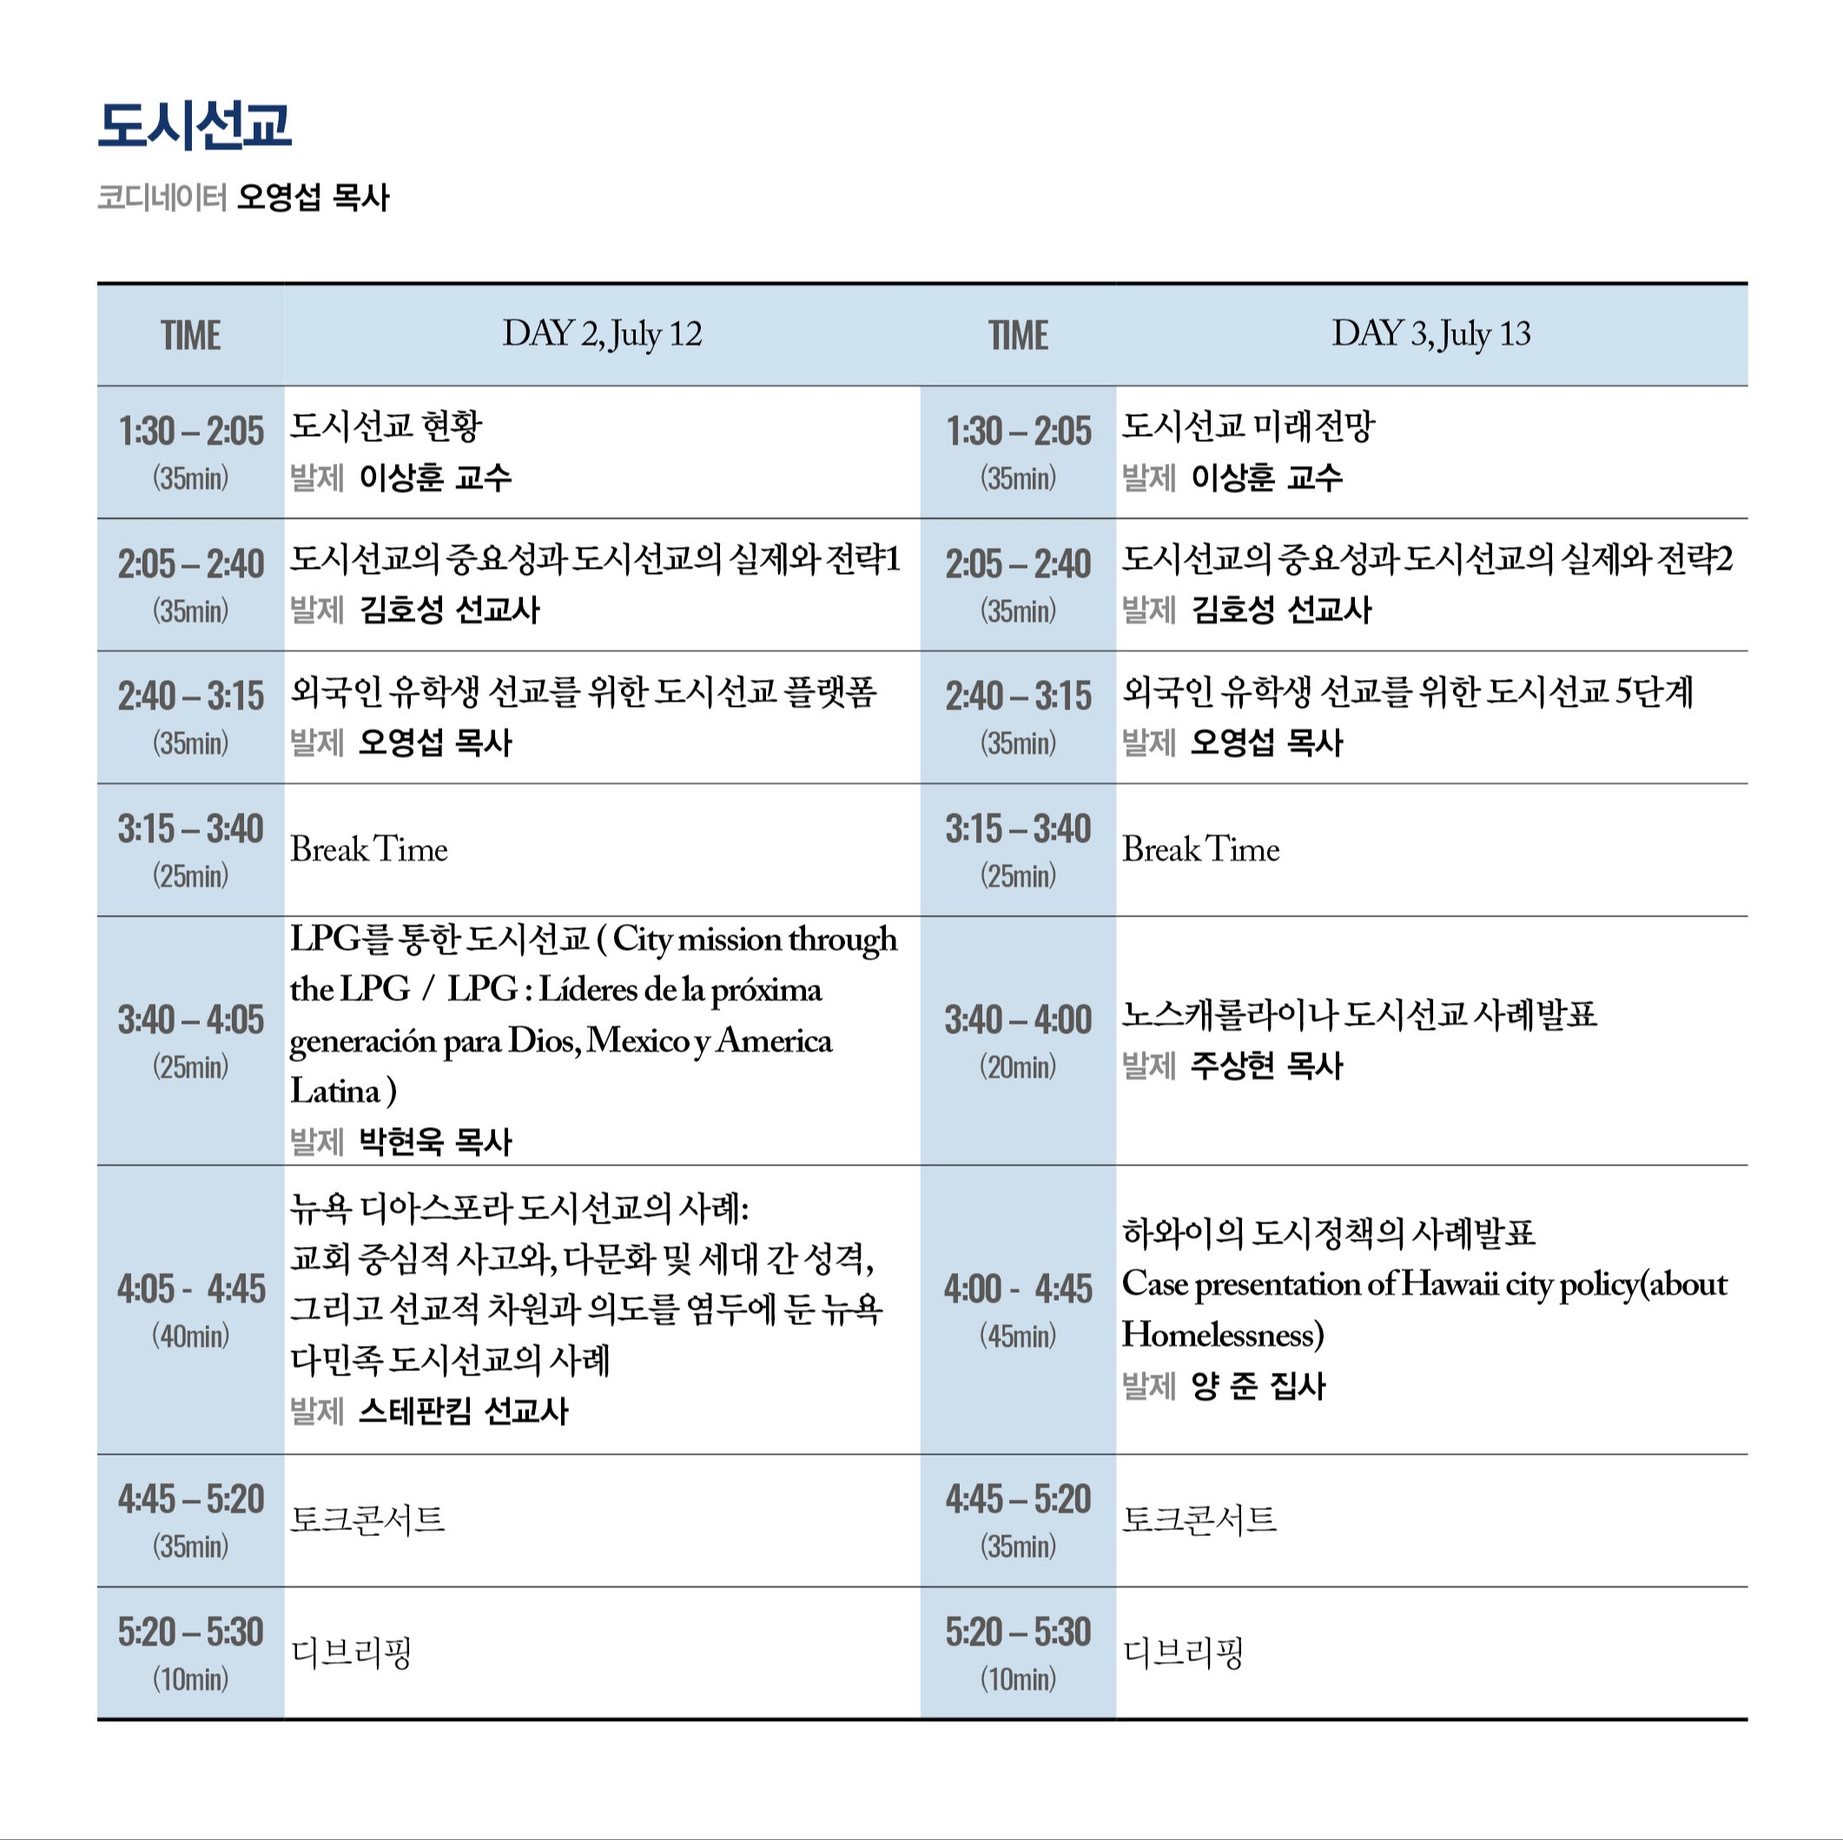
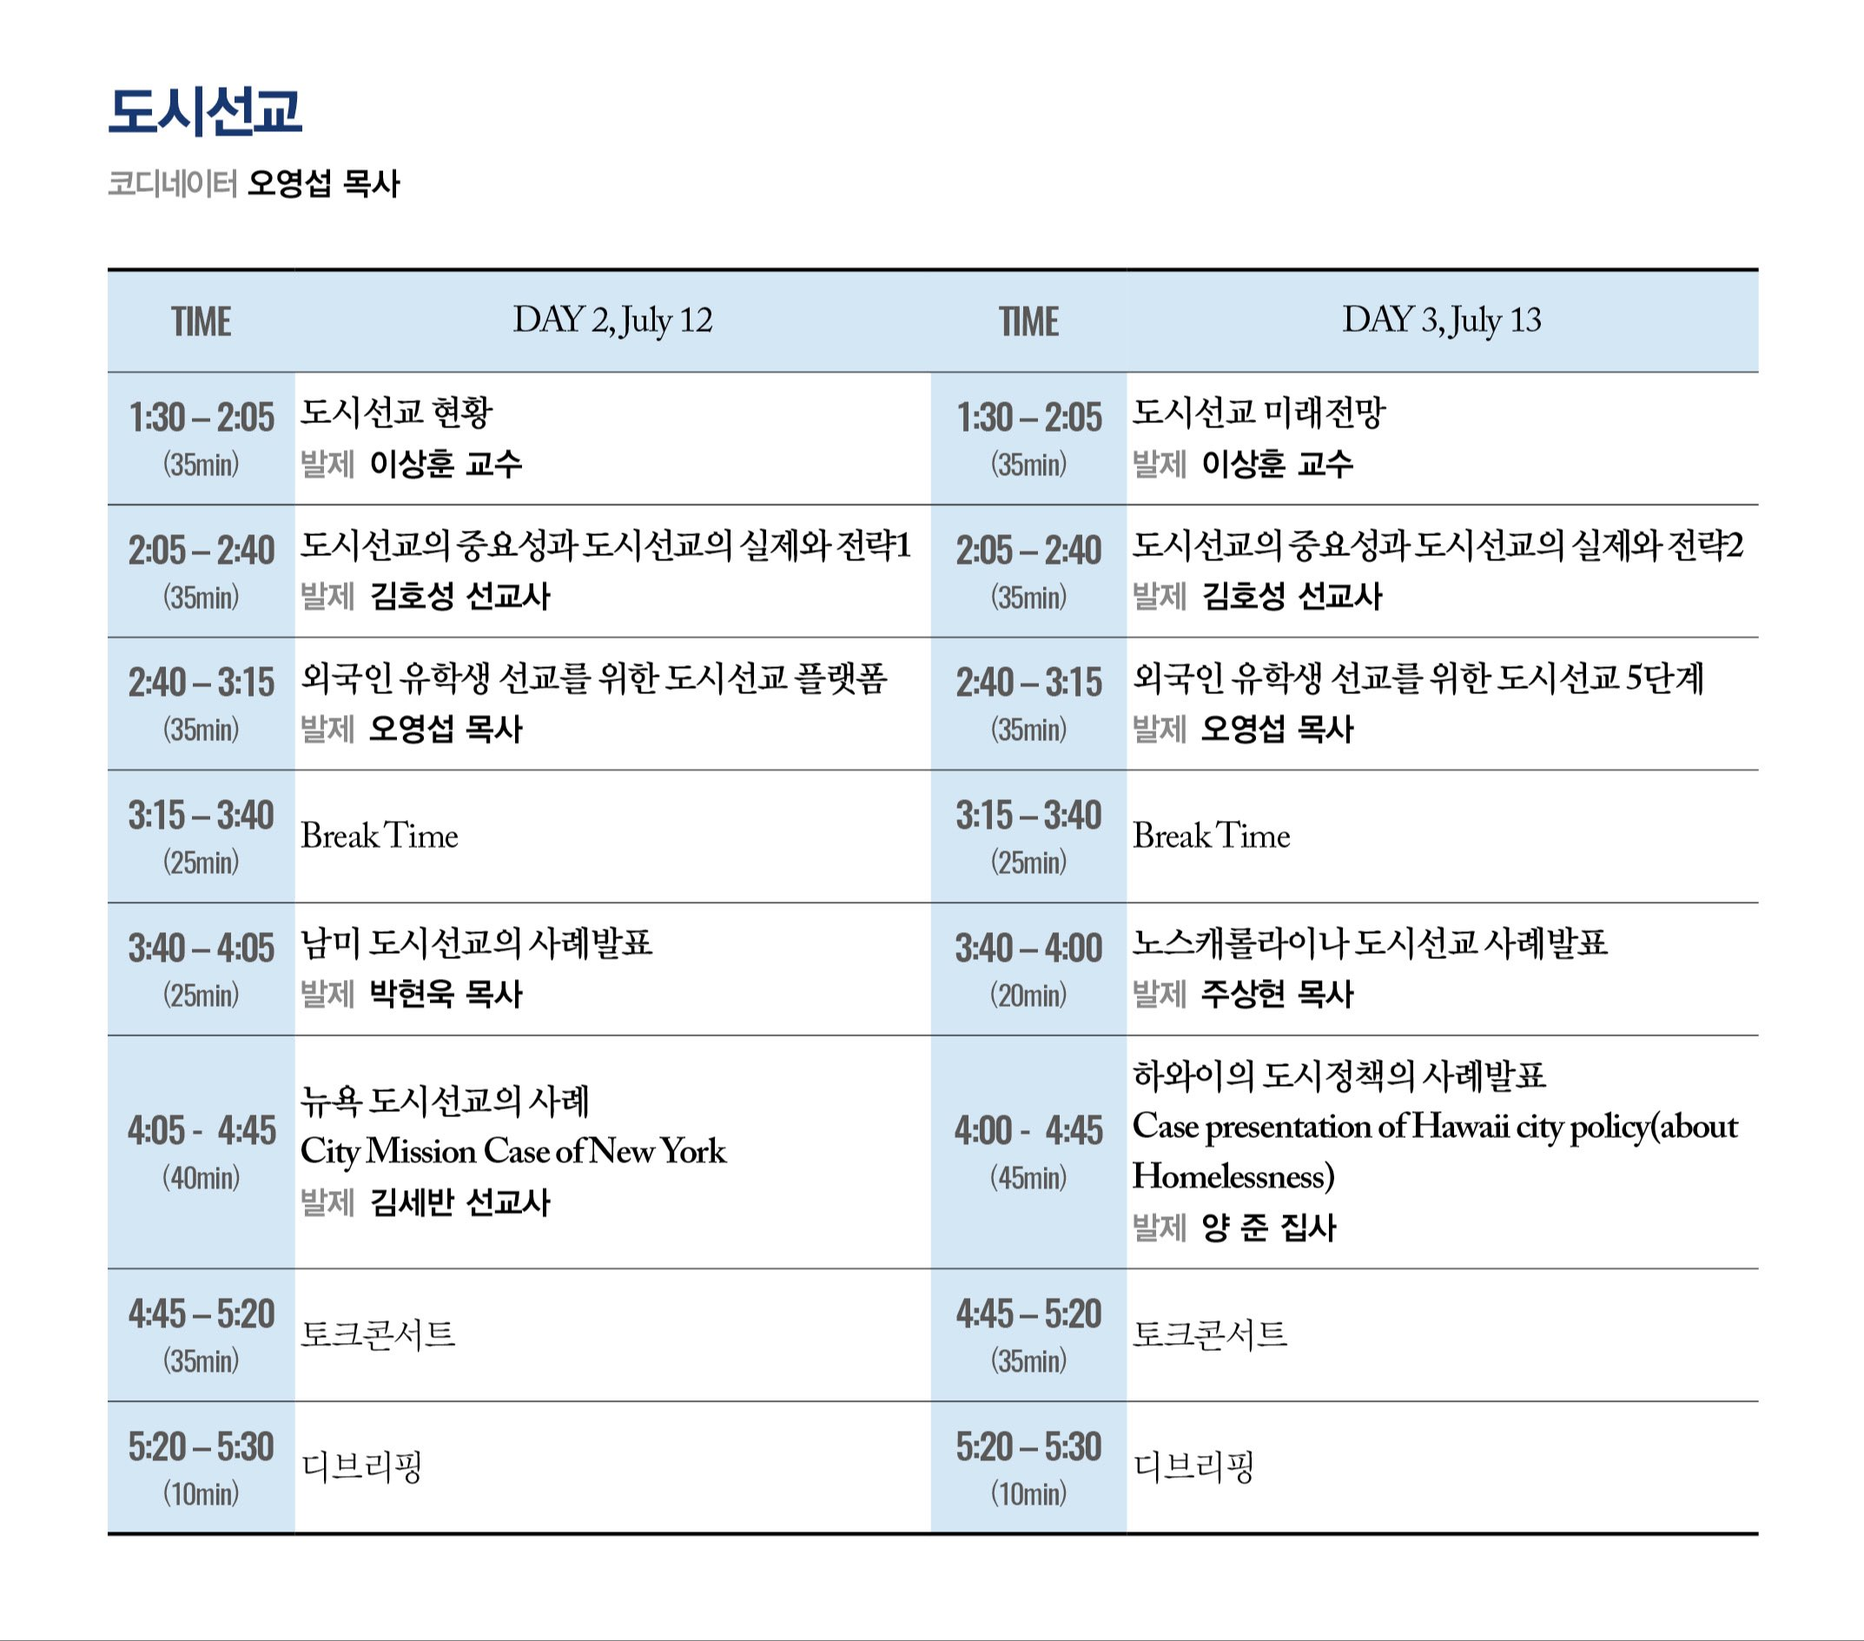
220712

Changed region(s): [[0.0311, 0.0312, 0.9642, 0.937]]

diff --git a/src/HomeModal.js b/src/HomeModal.js
@@ -1,6 +1,8 @@
 import ReactModal from 'react-modal';
 import Schedule from "./pages/program/Image/schedule.jpg";
 import mSchedule from "./pages/program/Image/mSchedule.jpg";
+import Live from "./pages/program/Image/LIve시간표상.jpg";
+import LiveButton from "./pages/program/Image/LIve시간표하.jpg";
 
 const MyModal = ({ isOpen, onSubmit, onCancel, onCancelToday }) => {
     const handleClickSubmit = () => {
@@ -13,21 +15,40 @@ const MyModal = ({ isOpen, onSubmit, onCancel, onCancelToday }) => {
         onCancelToday();
       };
   return (
+    // <ReactModal isOpen={isOpen} style={{overlay: {zIndex: 1001, padding: "0px", maxWidth: "100%", height: "fit-content"}, content: {padding: 0, height: "min-content", width: "fit-content"}}}>
+    //   <div className="notosanskr" style={{width: "fit-content"}}>
+    //     <div className="mTextSize2" style={{display: "flex", justifyContent: "center", marginTop: "1vw", marginBottom: "1vw", color: "#143674", fontWeight: "700"}}>2022 KWMC 제9차 한인세계선교대회 시간표</div>
+    //     <div style={{width: "fit-content", display: "flex", justifyContent: "center"}}>
+    //         <div className="WebImage" style={{display: "flex", justifyContent: "center", width: "fit-content"}} >
+    //         <img style={{height: "80vh"}} src={Schedule} alt="pictureSchedule"></img>
+    //         </div>
+    //         <div className="MobImage" style={{display: "flex", justifyContent: "center", maxHeight: "80vh", width: "fit-content"}} >
+    //         <img style={{height: "70vh", maxWidth: "80vw"}} src={mSchedule} alt="pictureSchedule"></img>
+    //         </div>
+    //     </div>
+    //   </div>
+    //   <div style={{width: "100%", display: "flex", justifyContent: "space-between"}}>
+    //   <button className="modalButton notosanskr" onClick={handleClickCancelToday}>오늘 하루동안 안보기</button>
+    //   <button className="modalButton notosanskr" onClick={handleClickCancel}>닫기</button>
+    //   </div>
+    // </ReactModal>
     <ReactModal isOpen={isOpen} style={{overlay: {zIndex: 1001, padding: "0px", maxWidth: "100%", height: "fit-content"}, content: {padding: 0, height: "min-content", width: "fit-content"}}}>
       <div className="notosanskr" style={{width: "fit-content"}}>
-        <div className="mTextSize2" style={{display: "flex", justifyContent: "center", marginTop: "1vw", marginBottom: "1vw", color: "#143674", fontWeight: "700"}}>2022 KWMC 제9차 한인세계선교대회 시간표</div>
-        <div style={{width: "fit-content", display: "flex", justifyContent: "center"}}>
+        {/* <div className="mTextSize2" style={{display: "flex", justifyContent: "center", marginTop: "1vw", marginBottom: "1vw", color: "#143674", fontWeight: "700"}}>2022 KWMC 제9차 한인세계선교대회 시간표</div> */}
+        <div style={{width: "min-content", display: "flex", justifyContent: "center", flexDirection: "column", alignItems: "center"}}>
             <div className="WebImage" style={{display: "flex", justifyContent: "center", width: "fit-content"}} >
-            <img style={{height: "80vh"}} src={Schedule} alt="pictureSchedule"></img>
+              <img style={{height: "70vh"}} src={Live} alt="pictureSchedule"></img>
             </div>
             <div className="MobImage" style={{display: "flex", justifyContent: "center", maxHeight: "80vh", width: "fit-content"}} >
-            <img style={{height: "70vh", maxWidth: "80vw"}} src={mSchedule} alt="pictureSchedule"></img>
+              <img style={{height: "50vh", maxWidth: "80vw"}} src={Live} alt="pictureSchedule"></img>
             </div>
+            <img onClick={() => window.open("https://www.youtube.com/channel/UCMtWN6GVqhKFDqGo0oksP-w")} style={{width: "25rem", maxWidth: "80%", margin: "1.5rem", cursor: "pointer"}} src={LiveButton} alt="button"></img>
+
         </div>
       </div>
       <div style={{width: "100%", display: "flex", justifyContent: "space-between"}}>
-      <button onClick={handleClickCancelToday}>오늘 하루동안 안보기</button>
-      <button onClick={handleClickCancel}>닫기</button>
+        <button className="modalButton notosanskr" onClick={handleClickCancelToday}>오늘 하루동안 안보기</button>
+        <button className="modalButton notosanskr" onClick={handleClickCancel}>닫기</button>
       </div>
     </ReactModal>
   );

diff --git a/src/pages/Home.js b/src/pages/Home.js
@@ -85,8 +85,8 @@ const Home = ({history}) => {
         </div>
         <div style={{width: "100%", display: "flex", justifyContent: "center"}}>
           <div className="mobColumn" style={{width: "60vw", display: "flex", justifyContent: "center"}}>
-            <Button style={{borderRight: "1px solid #787878", position: "relative", zIndex: "1000", boxShadow: "none"}} onClick={() => window.open("https://forms.gle/nVCRY7tRWsxS4HGN7")} label="대회신청하기 (선교사)" className="p-button-raised p-button-text p-button-plain registerButton" />
-            <Button label="대회신청하기 (일반참가자/교회/MK/MZ)" style={{width: "30vw", height: "9vh", boxShadow: "none", border: "1px solid lightgray", background: "#E2EBEE", wordBreak: "keep-all"}} className="p-button-raised p-button-text p-button-plain registerButton2" onClick={() => window.open("https://form.jotform.com/221007600697148")} />
+            <Button style={{borderRight: "1px solid #787878", position: "relative", zIndex: "1000", boxShadow: "none"}} onClick={() => window.open("https://www.youtube.com/channel/UCMtWN6GVqhKFDqGo0oksP-w")} label="실시간 YouTube LIVE 시청하기" className="p-button-raised p-button-text p-button-plain registerButton" />
+            {/* <Button label="대회신청하기 (일반참가자/교회/MK/MZ)" style={{width: "30vw", height: "9vh", boxShadow: "none", border: "1px solid lightgray", background: "#E2EBEE", wordBreak: "keep-all"}} className="p-button-raised p-button-text p-button-plain registerButton2" onClick={() => window.open("https://form.jotform.com/221007600697148")} /> */}
           </div>
         </div>
         <iframe className="videoContainer2" src="https://www.youtube.com/embed/cvXGy0cFn08" title="YouTube video player" frameBorder="0" allow="accelerometer; autoplay; clipboard-write; encrypted-media; gyroscope; picture-in-picture; fullscreen;" modestbranding="1" rel="0" >

diff --git a/src/pages/data/Update.js b/src/pages/data/Update.js
@@ -129,6 +129,13 @@ const Update = ({history}) => {
                   <li className="mWidth100" style={{width: "46%", marginBottom: "2vh", margin: "2%" }}><a target="_blank" rel="noreferrer" style={{textDecoration: "none"}} href="http://kwmc2022.org/files/영역별모임/문화예술/09 문화예술&미디어 - 이규성 선교사(Godsends_Presentation).docx">이규성 선교사</a></li>
               </ol>
             }
+            {section === "도시선교" &&
+              <ol style={{display: "inline-flex", flexWrap: "wrap", width: "100%"}}>
+                  <li className="mWidth100" style={{width: "46%", marginBottom: "2vh", margin: "2%" }}><a target="_blank" rel="noreferrer" style={{textDecoration: "none"}} href="http://kwmc2022.org/files/영역별모임/도시선교/Stephen Kim 김세반 선교사 2022 KWMC Urban City Track Presentation - Size Reduced.pdf">김세반 선교사</a></li>
+                  <li className="mWidth100" style={{width: "46%", marginBottom: "2vh", margin: "2%" }}><a target="_blank" rel="noreferrer" style={{textDecoration: "none"}} href="http://kwmc2022.org/files/영역별모임/도시선교/오영섭 목사 - 외국인유학생을 위한 도시선교 플랫폼(최종).hwp">오영섭 목사</a></li>
+                  <li className="mWidth100" style={{width: "46%", marginBottom: "2vh", margin: "2%" }}><a target="_blank" rel="noreferrer" style={{textDecoration: "none"}} href="http://kwmc2022.org/files/영역별모임/도시선교/주상현 목사 워크샵(21세기 모세 이야기).pdf">주상현 목사</a></li>
+              </ol>
+            }
           </div>
       </div>
       <BottomBanner isHome={false}></BottomBanner>

diff --git a/src/pages/program/Section.js b/src/pages/program/Section.js
@@ -383,7 +383,7 @@ const Section = ({history}) => {
               1) 하나님을 알기 2) 제자공동체 세우기 3) 세상에 대학 성경적 섬김 을 중심으로 사역하고 있으며, 사역의 전략은 도시와 도시의 얼굴을 보여주는 대학생,젊은이들을 통해 현재와 미래세대의 위한 중남미의 하나님나라를 위한 복음주의적 다음세대의 리더를 세움을  귀납적 말씀사역과 소그룹제자 훈련과 현지교회 젊은목회자들을 섬김의 경험을 함께 나누면서 멕시코와 콜롬비아와 온두라스 모임을 통해 젊은이 제자사역의 구체적방법을 나누며 강의하려합니다
             </span>)}
 
-            {makeProfile(Stephen, "스데반김 선교사", "주제: 뉴욕 디아스포라 도시선교의 사례", ""
+            {makeProfile(Stephen, "김세반 선교사", "주제: 뉴욕 디아스포라 도시선교의 사례", ""
             , <span>
               Missionary Stephen Kim (김세반)<br></br>
               Stephen is a bilingual and served Korean American and multiethnic congregations in urban settings, including New York City and Chicago over 15 years. His experience partly includes college ministries and church planting as well. He ministered in International City Ministry since 2010 to assist indigenous and diaspora churches in urban missional ministries. He holds M.Div. with Cross-Cultural Ministry emphasis from Trinity Evangelical Divinity School and currently working on Ph.D. degree in Intercultural Studies at the same institution.

diff --git a/src/pages/data/박상은대표.js b/src/pages/data/박상은대표.js
@@ -1,0 +1,18 @@
+import React, { useEffect, useState } from 'react';
+
+const 박상은대표 = ({history}) => {
+  const [section, setSection] = useState("디아스포라");
+  return (
+    <div style={{width: "100%", height: "100%", display: "flex", flexDirection: "column", alignItems: "center"}}>
+        <div className="mWidth100 mFlexContainer mMenuTextSize" style={{width: "60%", display: "flex", padding: "1rem", border: "1px solid rgb(226, 226, 226)", fontSize: "1vw", marginBottom: "3.5vw", background: "white", flexDirection: "column"}}>
+            <ul style={{display: "inline-flex", flexWrap: "wrap", width: "100%"}}>
+                <li className="mWidth100" style={{width: "46%", marginBottom: "2vh", margin: "2%" }}><a target="_blank" rel="noreferrer" style={{textDecoration: "none"}} href="http://kwmc2022.org/files/영역별모임/비정부기구/박상은대표/02 박상은(샘병원 미션원장) - NGO와 의료선교.hwp">박상은(샘병원 미션원장) - NGO와 의료선교</a></li>
+                <li className="mWidth100" style={{width: "46%", marginBottom: "2vh", margin: "2%" }}><a target="_blank" rel="noreferrer" style={{textDecoration: "none"}} href="http://kwmc2022.org/files/영역별모임/비정부기구/박상은대표/06 박상은(아프리카미래재단 대표) - NGO와 아프리카.hwp">박상은(아프리카미래재단 대표) - NGO와 아프리카</a></li>
+
+            </ul>
+        </div>
+    </div>
+  );
+}
+
+export default 박상은대표;

diff --git a/src/pages/data/김휴성이창진.js b/src/pages/data/김휴성이창진.js
@@ -1,0 +1,18 @@
+import React, { useEffect, useState } from 'react';
+
+
+const 김휴성이창진 = ({history}) => {
+  const [section, setSection] = useState("디아스포라");
+  return (
+    <div style={{width: "100%", height: "100%", display: "flex", flexDirection: "column", alignItems: "center"}}>
+        <div className="mWidth100 mFlexContainer mMenuTextSize" style={{width: "60%", display: "flex", padding: "1rem", border: "1px solid rgb(226, 226, 226)", fontSize: "1vw", marginBottom: "3.5vw", background: "white", flexDirection: "column"}}>
+            <ul style={{display: "inline-flex", flexWrap: "wrap", width: "100%"}}>
+                <li className="mWidth100" style={{width: "46%", marginBottom: "2vh", margin: "2%" }}><a target="_blank" rel="noreferrer" style={{textDecoration: "none"}} href="http://kwmc2022.org/files/영역별모임/비정부기구/01 김휴성 선교사 - 글로벌호프 기관소개.pdf">김휴성 선교사 파일다운로드</a></li>
+                <li className="mWidth100" style={{width: "46%", marginBottom: "2vh", margin: "2%" }}><a target="_blank" rel="noreferrer" style={{textDecoration: "none"}} href="http://kwmc2022.org/files/영역별모임/문화예술/06 문화예술&미디어 - 이창진 선교사(청년미디어 인턴십을 통한 거점미디어센터 파트너십).pdf">이창진 선교사 파일다운로드</a></li>
+            </ul>
+        </div>
+    </div>
+  );
+}
+
+export default 김휴성이창진;

diff --git a/src/App.js b/src/App.js
@@ -28,6 +28,10 @@ import Display from './pages/register/Display';
 import Presentation from './pages/program/Presentation';
 import Bible from './pages/program/Bible';
 import Special from './pages/program/Special';
+
+import 김휴성이창진 from './pages/data/김휴성이창진';
+import 박상은대표 from './pages/data/박상은대표';
+
 const App = () => {
   return (
     <div style={{height: "100%", width: "100%", paddingBottom: "8vh", background: "rgb(236, 246, 252)"}}>
@@ -54,7 +58,6 @@ const App = () => {
 					<Route path="/guide_around" component={Around}/>
 					<Route path="/guide_etc" component={Etc}/>
 
-
 					<Route path="/register" component={Register}/>
 					<Route path="/register_missionary" component={Missionary}/>
 					<Route path="/register_mkmz" component={MkMz}/>
@@ -66,6 +69,11 @@ const App = () => {
 					<Route path="/data_update" component={Update}/>
 
 					<Route path="/planning" component={Plan}/>
+
+					<Route path="/김휴성이창진" component={김휴성이창진}/>
+					<Route path="/박상은대표" component={박상은대표}/>
+					<Route path="/planning" component={Plan}/>
+
 					<Route path="/" component={Home}></Route>
 
 					<Redirect path="*" to="/" />

diff --git a/src/App.css b/src/App.css
@@ -124,6 +124,13 @@
 .p-button:focus {
     box-shadow: none !important;
 }
+.modalButton {
+    background-color: #1C3871;
+    color: white !important;
+    border: none;
+    padding: .4rem;
+    cursor: pointer;
+}
 @media screen and (min-width: 961px) {
     .p-menuitem {
         height: 100%;
@@ -165,7 +172,7 @@
     
     .registerButton {
         font-size: 1.15vw !important;
-        width: 30vw !important;
+        width: 60vw !important;
         min-width: 10rem !important;
         font-family: Noto Sans KR !important;
         background-color: #003685 !important;
